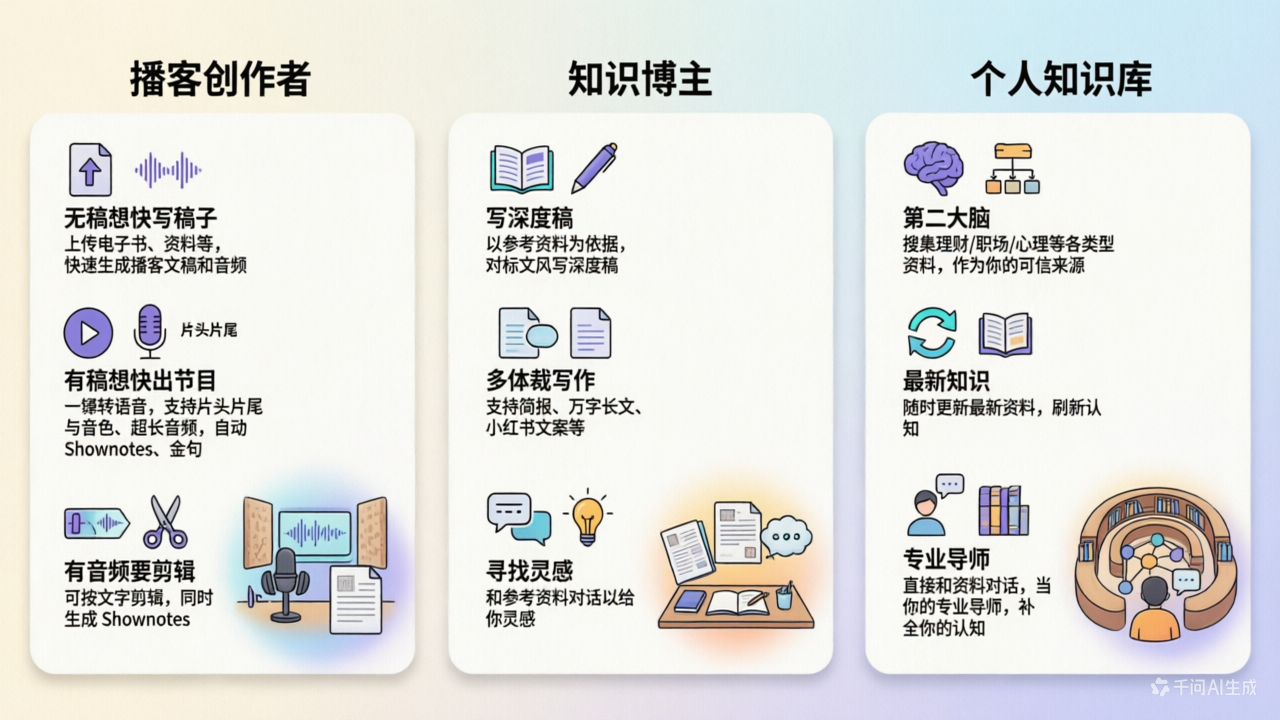
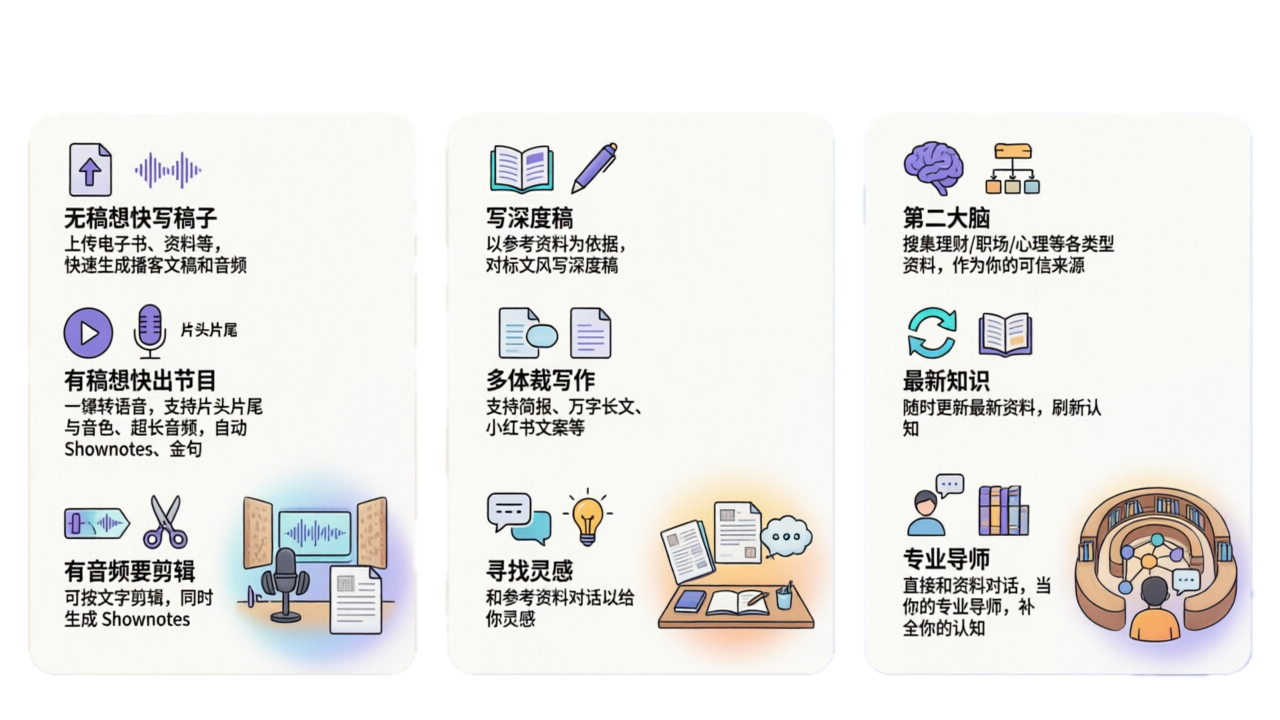
更新典型场景配图并缩小展示宽度，居中显示。

Changed region(s): [[0.0, 0.0, 1.0, 1.0]]

diff --git a/apps/web/app/(marketing)/page.tsx b/apps/web/app/(marketing)/page.tsx
@@ -178,15 +178,17 @@ export default function MarketingLandingPage() {
           >
             典型场景
           </h2>
-          <div className="mt-8">
-            <Image
-              src="/marketing/scenario-cards.png"
-              alt="典型场景：播客创作者、知识博主、个人知识库"
-              width={1280}
-              height={720}
-              sizes="(max-width: 1280px) 100vw, 1280px"
-              className="h-auto w-full rounded-2xl border border-line/80 shadow-soft"
-            />
+          <div className="mt-8 flex justify-center">
+            <div className="w-full max-w-2xl sm:max-w-3xl lg:max-w-4xl">
+              <Image
+                src="/marketing/scenario-cards.png"
+                alt="典型场景：播客创作者、知识博主、个人知识库"
+                width={1280}
+                height={720}
+                sizes="(max-width: 640px) 100vw, (max-width: 1024px) 90vw, 896px"
+                className="h-auto w-full rounded-2xl border border-line/80 shadow-soft"
+              />
+            </div>
           </div>
         </section>
 
